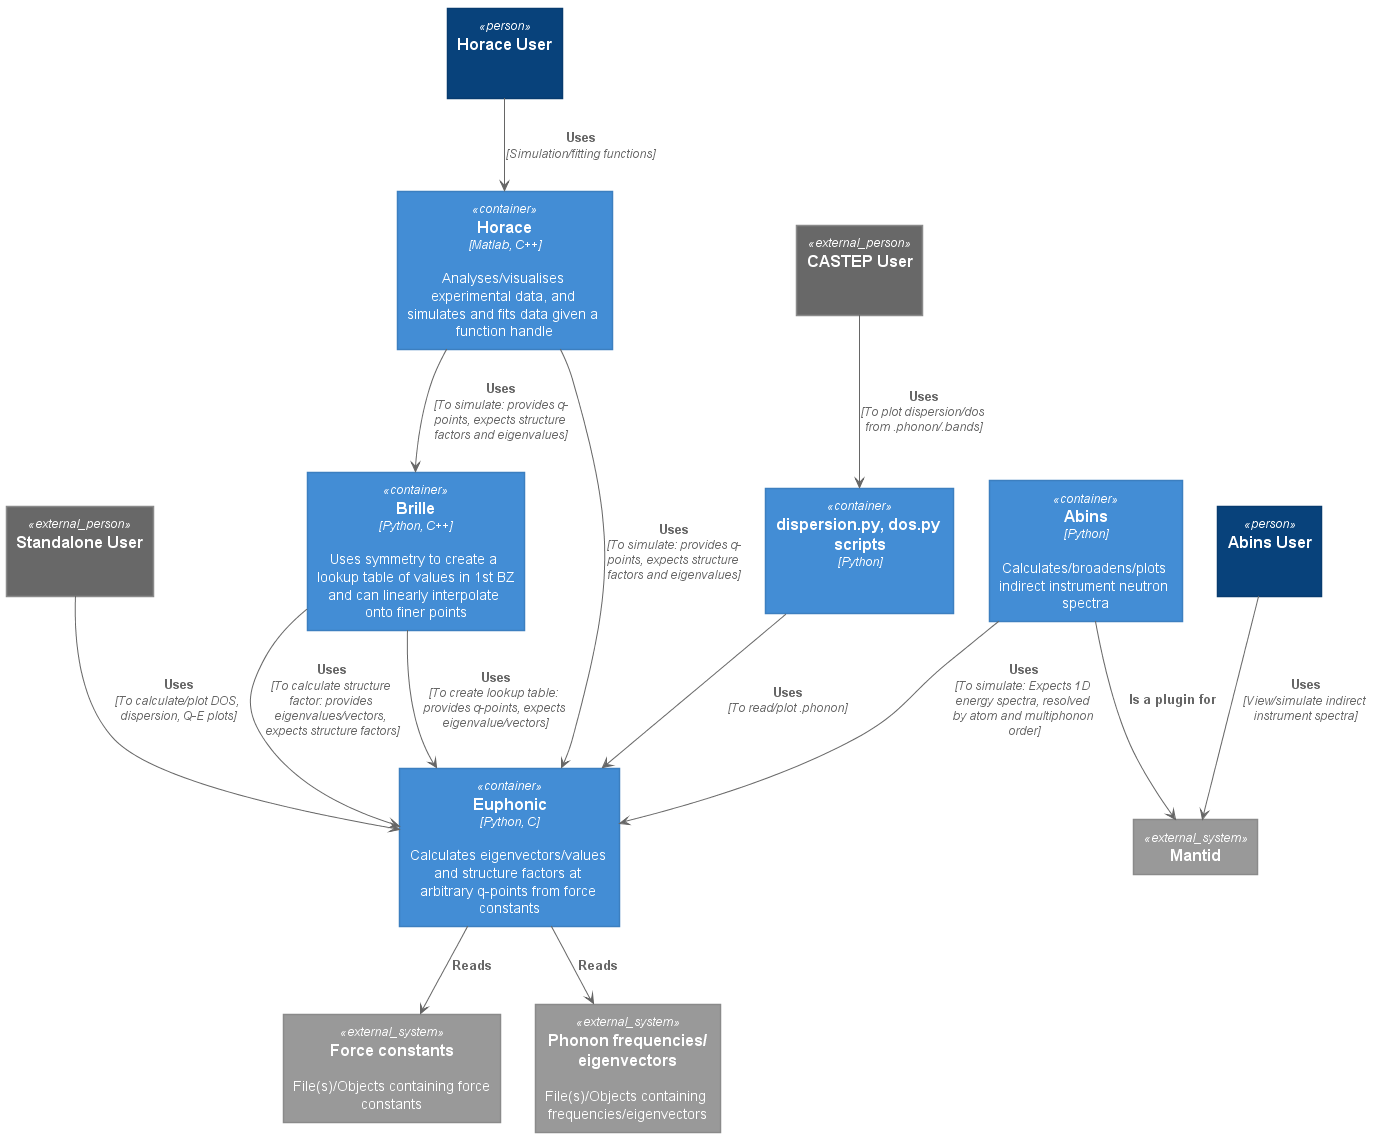
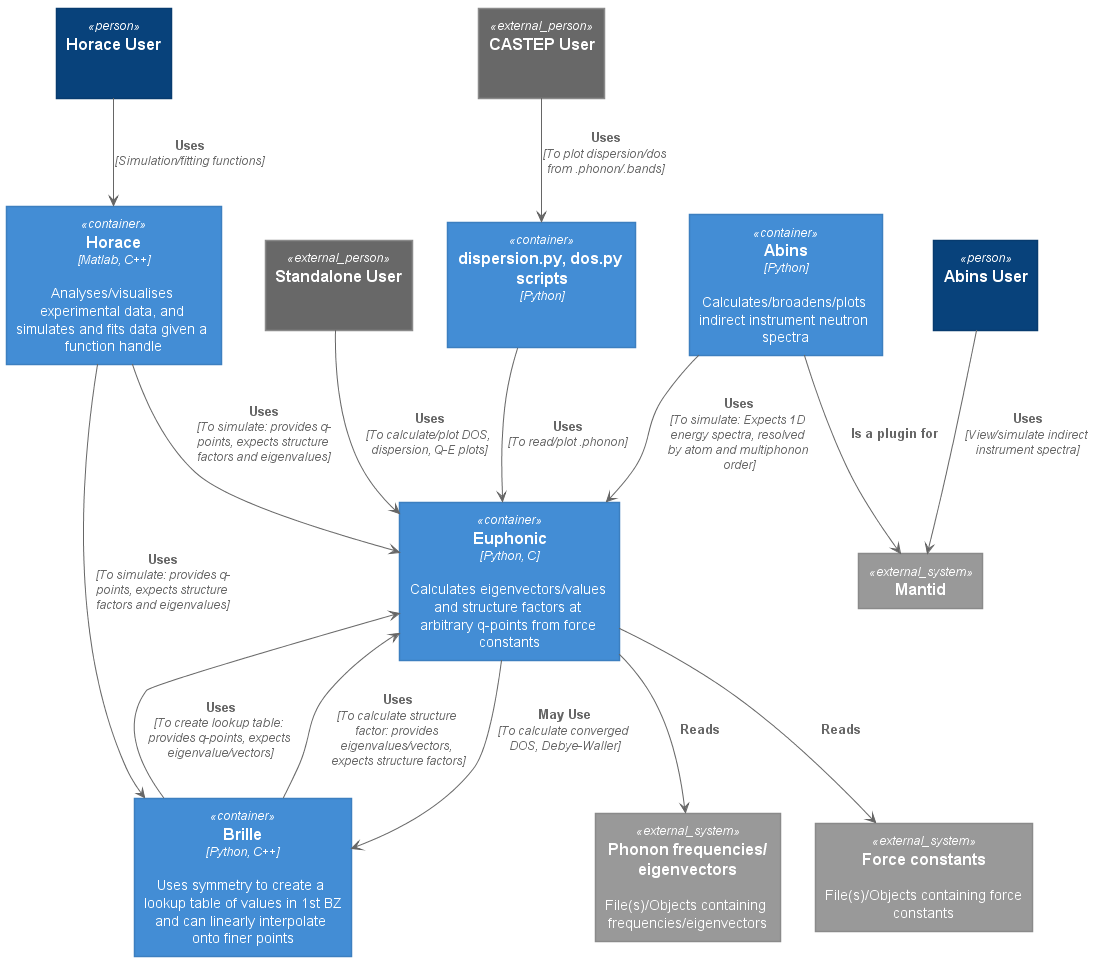
Changes to v0.3 design:
- Add mention of access to coherent data in Abins powder averaging
 - Add Abins requirement of calculating from existing freqs/eigenvecs
 - Add possibility of Euphonic depending on Brille
 - Change how LO-TO splitting is dealt with
 - Add HDF5 mention
 - Rename Structure to Crystal

diff --git a/euphonic/design/03_design_document_v0.3.md b/euphonic/design/03_design_document_v0.3.md
@@ -19,9 +19,12 @@ a lookup table of phonon eigenvectors and frequencies, which can be used to
 cheaply get frequencies and eigenvectors on a finer grid via linear
 interpolation. The structure factor can then be calculated on this finer grid
 (calculating the structure factor is much cheaper than calculating the
-frequencies/eigenvectors). The hierarchy of Horace/Brille/Euphonic is not yet
-decided so Euphonic must be flexible. In addition, in the future there is scope
-to calculate the structure factor for powder samples, this also needs to be
+frequencies/eigenvectors). This finer grid interpolation may also be useful to
+Euphonic for well-converged density of states, Debye-Waller exponents or powder
+averaging for example, so Euphonic may also want to depend on Brille for this
+purpose. However, the hierarchy of Horace/Brille/Euphonic is not yet decided so
+Euphonic must be flexible. In addition, in the future there is scope to
+calculate the structure factor for powder samples, this also needs to be
 considered. From this the requirements are:
 
 - Euphonic must be able to take a list of q-points as input, and return the
@@ -31,6 +34,7 @@ eigenvectors at q-points, from which the crystal structure factor can be
 calculated
 - Euphonic must allow for future calculation of a powder structure factor, which
 would be along scalar q, and binned in energy
+- Euphonic must not preclude having Brille as a dependency
 - Euphonic must run with a Python version that is compatible with the latest
 versions of Matlab (2019b supports 2.7, 3.6 and 3.7)
 - Euphonic should use packages that are compatible with Matlab, or have suitable
@@ -50,19 +54,21 @@ specific broadening and handle interaction with Mantid.
 In the literature these molecular crystal vibrations are usually separated into
 'internal' molecular vibrations (which are assumed to be flat) and 'external'
 vibrations (translations or rotations of the entire molecule). Currently Abins
-assumes all vibrations are flat (no dispersion) and employs semi-analytic powder
-averaging ([1]) up to 4th order multiphonon interactions. This could
-potentially be improved by integrating the eigenvectors over the Q accessible by
-the instrument, rather than assuming a flat bandstructure, but the exact method
-for doing this is not yet clear. If may also be beneficial to perform a
-numerical powder average rather than semi-analytical, but this may make
+employs semi-analytic powder averaging ([1]) up to 4th order multiphonon
+interactions. This assumes that all scattering is incoherent and all vibrations
+are flat (no dispersion). This could potentially be improved by integrating the
+eigenvectors over the Q accessible by the instrument, rather than assuming a
+flat bandstructure, but the exact method for doing this is not yet clear. It may
+also be beneficial to perform a numerical powder average rather than
+semi-analytical, which would give access to coherent effects, but this may make
 calculating higher order interactions prohibitively expensive, and needs to be
 investigated. These calculations should produce a 1D spectrum in energy,
 resolved per atom and quantum order. For Euphonic to be useful to Abins, the
 requirements are:
 
 - Euphonic must be able to produce a 1D energy-binned incoherent spectrum
-resolved per atom and quantum order
+resolved per atom and quantum order, from both a force constants matrix and from
+precalculated phonon frequencies/eigenvectors
 - Euphonic must run with versions of Python that are shipped with Mantid (as of
 Mantid 4.3.0 Python 3.6, 3.7, 3.8)
 
@@ -127,10 +133,10 @@ so the details of the powder structure factor may change
 
 ## Euphonic Data Objects
 
-### Structure
-The cell structure is an important piece of data describing the material, and is
+### Crystal
+The crystal structure is an important piece of data describing the material, and is
 required for many of the objects to do further calculations. It was not
-explicitly included in the above diagrams for simplicity, but `Structure` will
+explicitly included in the above diagrams for simplicity, but `Crystal` will
 be used in further object descriptions and has the following attributes:
 |Attribute|Type|
 |---------|----|
@@ -156,12 +162,12 @@ Force constants can be Fourier interpolated to calculate frequencies and
 eigenvectors at any q-point, it is therefore Euphonic's main data object and can
 be used to create most others. Force constants are calculated by an external
 code (e.g. CASTEP, Phonopy) and read to create this object. Force constants are
-useless on their own and require extra structure data (read in along with the
-force constants). The attributes required for this object are:
+useless on their own and require extra structure information (read in along with
+the force constants). The attributes required for this object are:
 
 |Attribute|Type|
 |---------|----|
-|Structure| Structure object|
+|Crystal| Crystal object|
 |Force constants|(n_cells, 3\*n_ions, 3\*n_ions) array of floats|
 |Cell origins|(n_cells, 3) array of ints|
 |Supercell matrix|(3, 3) array of ints|
@@ -183,23 +189,20 @@ Methods required on this object are:
 
 This contains phonon frequencies/eigenvectors calculated at arbitrary q-points.
 For dielectric materials, at the gamma point the frequencies are different
-depending on the direction of approach (LO-TO splitting). This should be
-included on dispersion plots so there must be a mechanism to contain the
-duplicated frequencies/eigenvectors at gamma points. They are contained in
-separate arrays, with an extra indexing array to determine which q-point they
-belong to.
+depending on the direction of approach (LO-TO splitting). This is handled by
+having duplicated gamma points next to each other to contain the split
+frequencies. As a result of this the size of the q-point array used to create
+this object from the force constants won't necessarily be the same size as the
+q-point array contained in this object.
 
 |Attribute|Type|
 |---------|----|
-|Structure|Structure object|
+|Crystal|Crystal object|
 |Number of q-points|int|
 |Q-points|(n_qpts, 3) array of floats|
 |Q-point weights|(n_qpts,) array of floats|
 |Frequencies|(n_qpts, 3*n_ions) array of floats|
 |Eigenvectors|(n_qpts, 3*n_ions, n_ions, 3) array of complex floats|
-|Split frequencies| (n_gamma_points, 3*n_ions) array of floats|
-|Split eigenvectors|(n_gamma_points, 3*n_ions, n_ions, 3) array of complex floats|
-|Gamma point indices|(n_gamma_points,) array of ints| 
 |Energy unit|string|
 |Structure factor unit|string|
 
@@ -241,7 +244,7 @@ optional but is needed if the user wants to include temperature effects.
 
 |Attribute|Type|
 |---------|----|
-|Structure|Structure object|
+|Crystal|Crystal object|
 |Temperature|float|
 |Debye-waller|(n_ions, 3, 3) array of floats|
 |Debye-waller unit|string|
@@ -301,13 +304,13 @@ included for labelling of high-symmetry points for dispersion plotting.
 
 ## Python data object types
 
-Many of the objects above contain extra data (e.g. structure information) that
-is required for the other data to make sense. The Force Constants and Phonon
-Data objects are the ones that do complex calculations, so they must be full
-Python `classes`. The other objects have at least 1 associated method (even if
-it is just serialisation). So there are 2 main options for these objects:
-`classes` and [`dataclasses`](https://docs.python.org/3/library/dataclasses.html).
-A simple prototype for the case of the Structure object has been created for
+Many of the objects above contain extra data (e.g. crystal structure
+information) that is required for the other data to make sense. The Force
+Constants and Phonon Data objects are the ones that do complex calculations, so
+they must be full Python `classes`. The other objects have at least 1 associated
+method (even if it is just serialisation). So there are 2 main options for these
+objects: `classes` and [`dataclasses`](https://docs.python.org/3/library/dataclasses.html).
+A simple prototype for the case of the Crystal object has been created for
 each case, using atomic units internally and properties to convert units for
 user access (as described in the [units](#units) section), and providing methods
 to input/output from/to a dictionary. 
@@ -319,7 +322,7 @@ from euphonic import ureg
 
 
 @dataclass
-class StructureDataclass:
+class CrystalDataclass:
 
     cell_vectors_init: InitVar[ureg.Quantity]
     n_ions: int
@@ -375,7 +378,7 @@ class StructureDataclass:
                    output_cell_vectors_unit=lu, output_ion_mass_unit=mu)
 
 
-class StructureClass(object):
+class CrystalClass(object):
 
     def __init__(self, cell_vectors, n_ions, ion_r, ion_type, ion_mass):
         self._cell_vectors = cell_vectors.to(
@@ -461,7 +464,7 @@ required data as arguments which is messy and likely to cause errors.
 ## Units
 Units in Euphonic will be handled by the [`Pint`](https://pint.readthedocs.io)
 package. This provides a large list of unit conversions that will not have to be
-maintianed by Euphonic, and allows for addition of custom units. It handles
+maintained by Euphonic, and allows for addition of custom units. It handles
 units by wrapping values (even Numpy arrays) in a `Quantity` object which has
 both a magnitude and unit, and provides methods for easy conversion. One thing
 to note is doing repeated operations on `Quantity` objects can reduce
@@ -482,10 +485,10 @@ example `INTERNAL_CELL_VECTORS_UNIT` can be defined:
 ```
 ureg.define('@alias bohr = INTERNAL_CELL_VECTORS_UNIT')
 ```
-Which is what is used to create the `ureg` in the above Structure example.
+Which is what is used to create the `ureg` in the above Crystal example.
 
 Inside Euphonic's data objects, all pieces of data with units are stored as a
-bare magnitude, implicitly in atomic units. For example, in the Structure class
+bare magnitude, implicitly in atomic units. For example, in the Crystal class
 above `_cell_vectors` is a  'private' attribute which is stored as a plain Numpy
 array in units of bohr radius. The user-facing attribute is `cell_vectors` which
 is a property that converts the `_cell_vectors` to whatever unit is stored in
@@ -501,7 +504,7 @@ default units for that object will then be the same as whatever was input.
 When outputting to/taking input from another data format e.g. dictionary or
 file, `Quantity` objects are not used to increase portability. Instead, any data
 with units will be output as 2 fields: 1 containing the data, and 1 containing a
-string specifying the units. For example, in the Structure class above, when
+string specifying the units. For example, in the Crystal class above, when
 converting `cell_vectors` to a dictionary, the dictionary will contain:
 ```
 'cell_vectors': array([[ 2.426176, -4.20226   0.      ],
@@ -524,8 +527,12 @@ and will be mainly useful for debugging and quick sanity checking of answers.
 For both easy testing and export to other programs, Euphonic will need to be
 able to serialise most of its data objects. They should each have their own
 methods, although it is not decided what formats should be supported and more
-may be added later. Initial support could be for one of: 
+may be added later. In the first instance implementing a human-readable format
+might be sensible as it can be useful for testing. Initial support could be for
+one of:
 
-- `yaml`: human readable, Phonopy uses it so `pyyaml` is is already a dependency
-- `json`: human readable, Python has built-in json module, may represent objects
-better
+- `yaml`: Phonopy uses it so `pyyaml` is is already a dependency
+- `json`: Python has built-in json module, may represent objects better
+
+A binary data format will also be required for storing large objects. Currently,
+the most likely format for this is HDF5.
